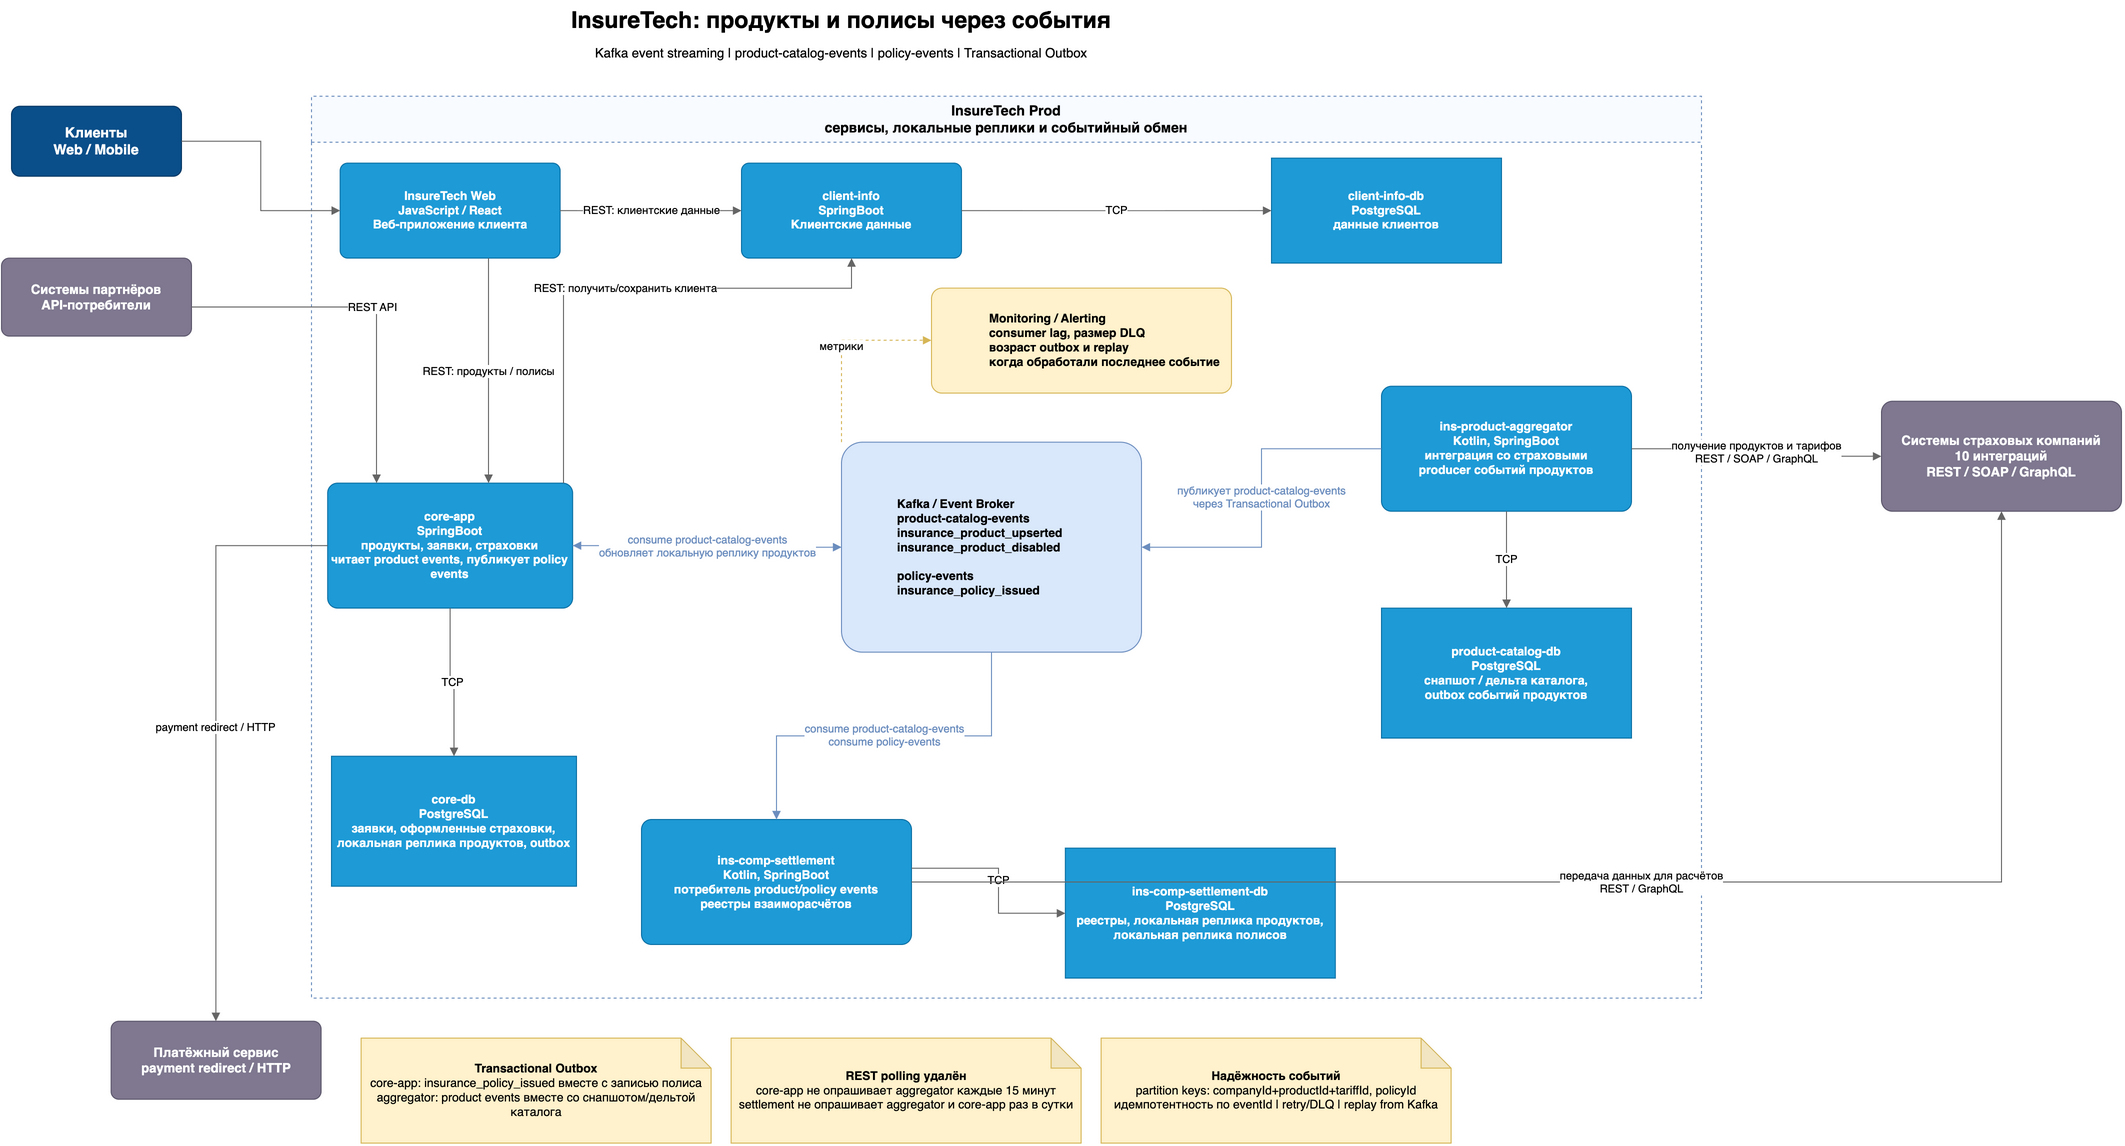
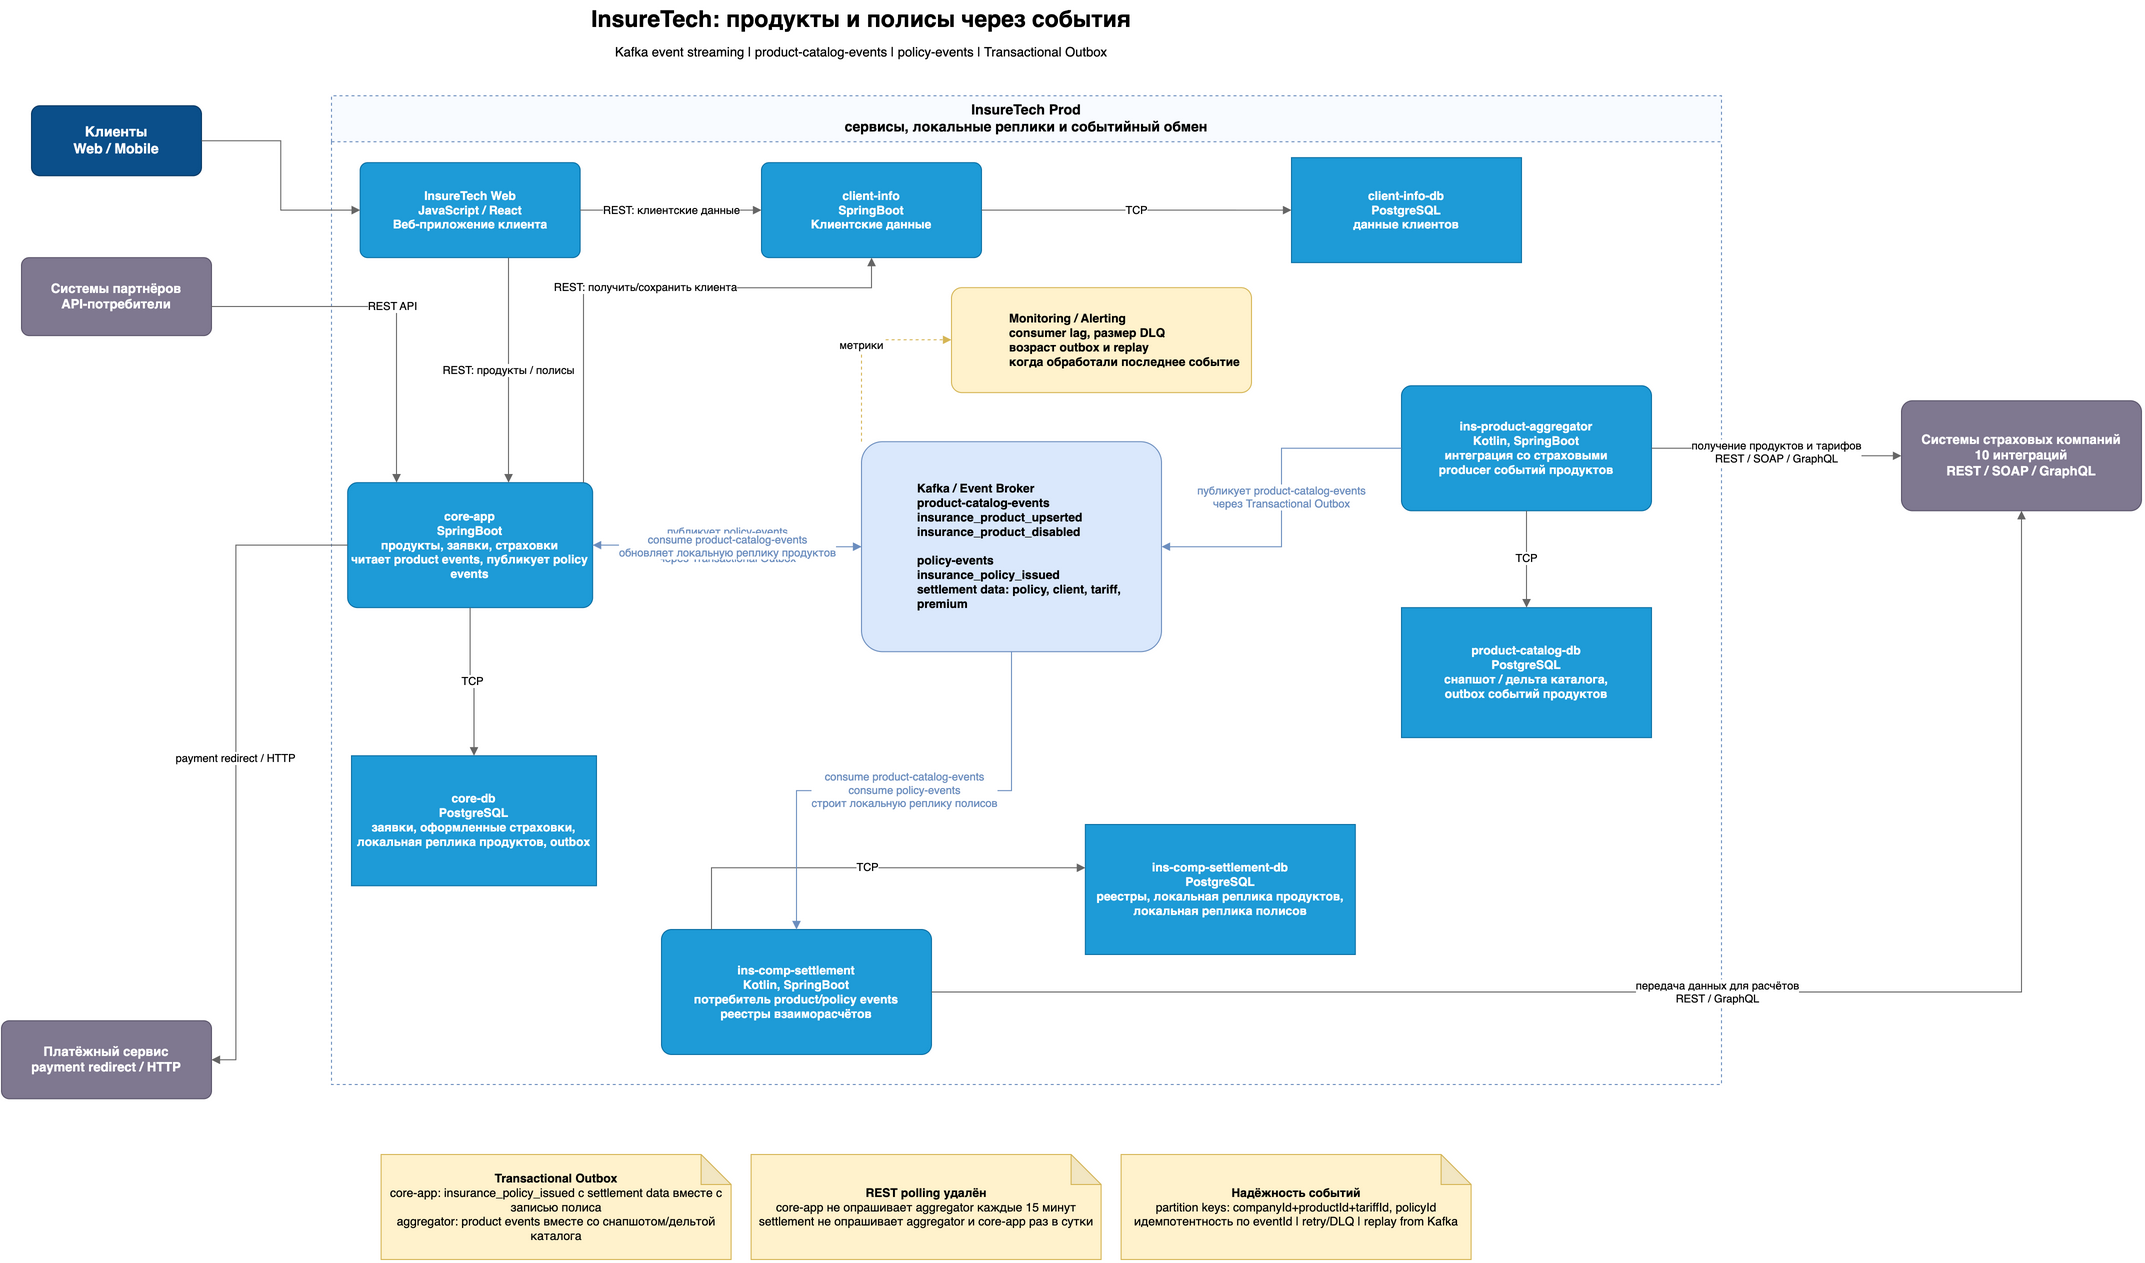
Clarify Task3 policy event payload

diff --git a/Task3/problems-and-risks.md b/Task3/problems-and-risks.md
@@ -21,13 +21,14 @@
 - `ins-product-aggregator` публикует изменения продуктов и тарифов в `product-catalog-events`.
 - `core-app` и `ins-comp-settlement` подписываются на `product-catalog-events` и обновляют локальные реплики без REST polling к `ins-product-aggregator`.
 - `core-app` публикует событие `insurance_policy_issued` в `policy-events` после оформления страховки.
+- `insurance_policy_issued` содержит данные, необходимые для взаиморасчётов: идентификаторы полиса, клиента, продукта, тарифа и страховой компании, премию, статус и время оформления.
 - `ins-comp-settlement` подписывается на `policy-events`, поддерживает локальную реплику оформленных страховок и формирует реестр взаиморасчётов без ежедневного REST-запроса в `core-app`.
 - Outbound-интеграции `ins-product-aggregator` со страховыми компаниями остаются REST/SOAP/GraphQL: внешние страховые API остаются источником продуктов и тарифов.
 
 ## События
 
 - `product-catalog-events`: `insurance_product_upserted`, `insurance_product_disabled`. Ключ партиционирования: `companyId + productId + tariffId`.
-- `policy-events`: `insurance_policy_issued`. Ключ партиционирования: `policyId`.
+- `policy-events`: `insurance_policy_issued` с данными для взаиморасчётов. Ключ партиционирования: `policyId`.
 - Каждое событие содержит `eventId`, `eventType`, `occurredAt`, версию схемы и идентификаторы доменной сущности.
 - Потребители сохраняют обработанные `eventId` в технической таблице и игнорируют дубли.
 
